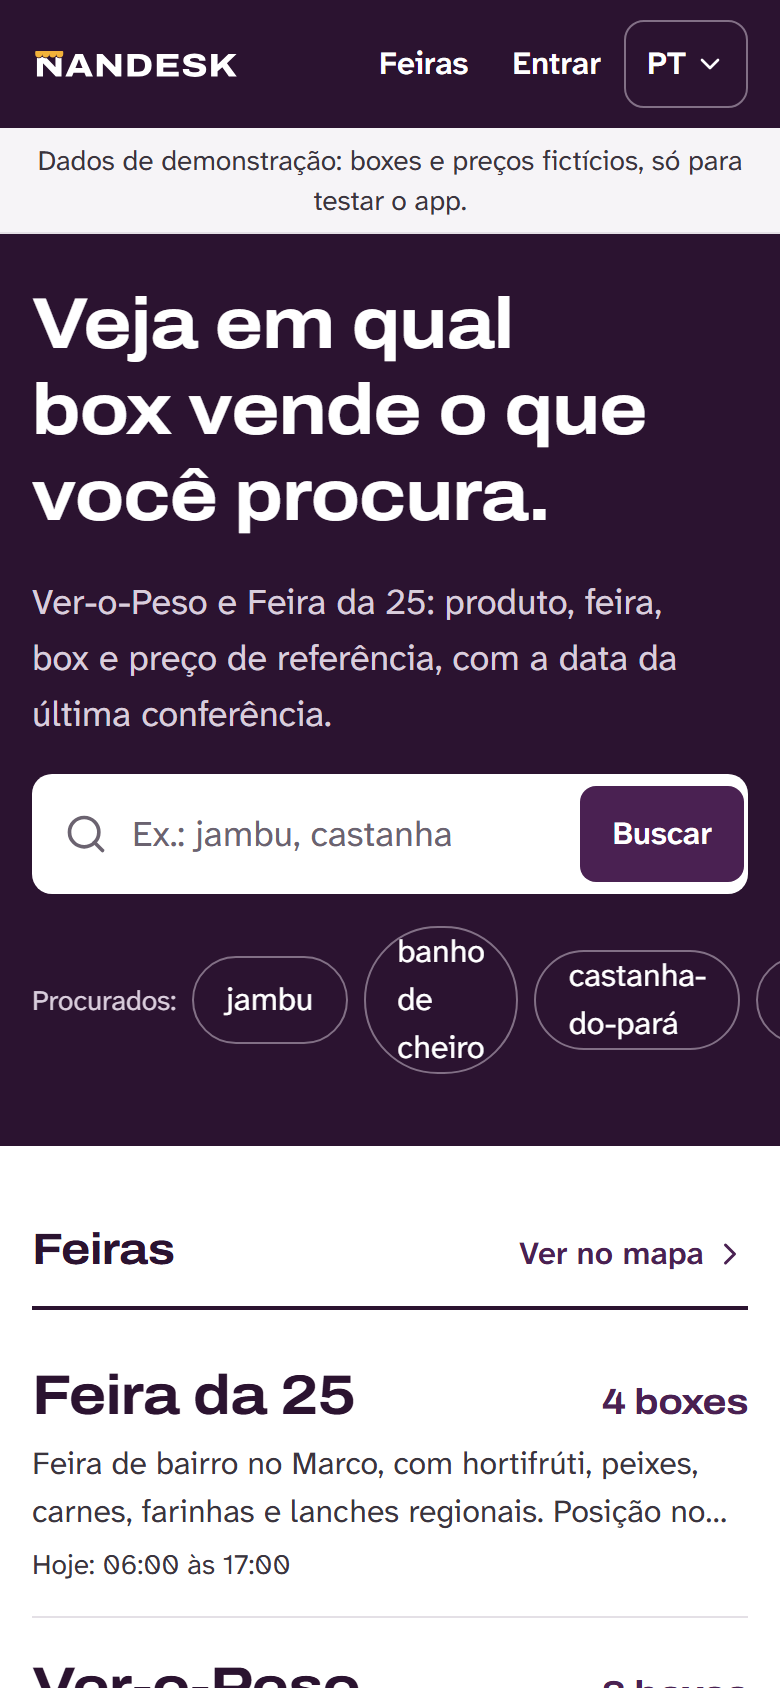
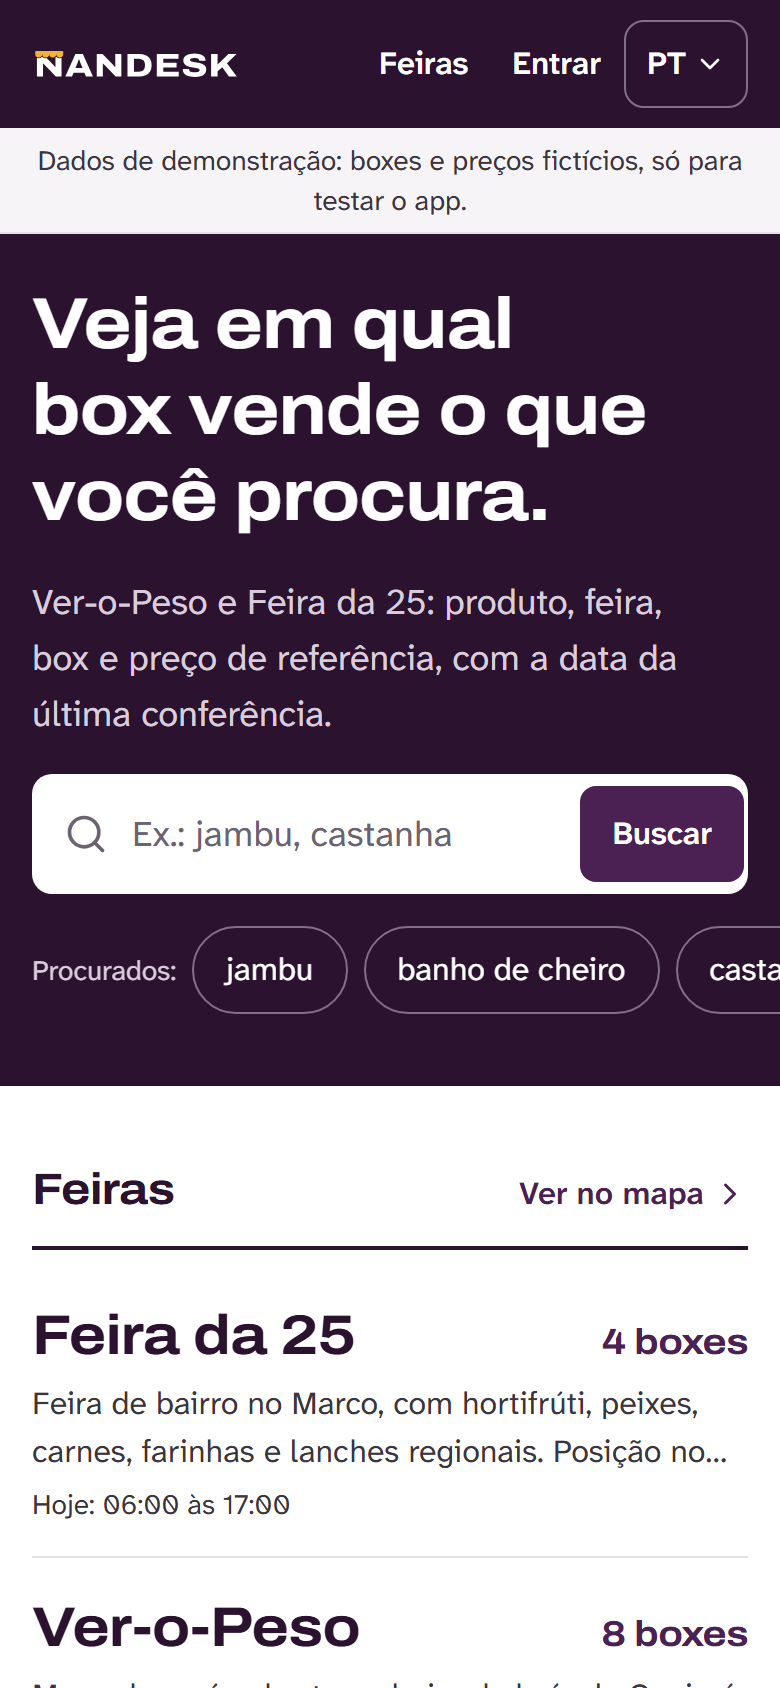
fix(web): marca "atualizado" em Açaí 700, termos rápidos sem quebra, contador do sino e app shell na escala; E2E repetível no mesmo banco (RNF-07, RN-17)
A limpeza das jornadas aprova os envios que sobraram em vez de recusar, para não derrubar a reputação da conta de teste.

Changed region(s): [[0.0, 0.5545, 1.0, 1.0], [0.7692, 0.955, 0.9538, 1.0]]

diff --git a/frontend/e2e/support.ts b/frontend/e2e/support.ts
@@ -48,8 +48,9 @@ interface TaskRow {
  * crie uma num box sem tarefa ativa (RN-01). Devolve o número do box.
  */
 /**
- * Deixa a pessoa sem tarefas em andamento (RN-03 limita a 2): desiste das aceitas e a moderação recusa, reabrindo,
- * os envios pendentes que sobraram de execuções anteriores. No CI o banco começa vazio e isto não faz nada.
+ * Deixa a pessoa sem tarefas em andamento (RN-03 limita a 2): desiste das aceitas e a moderação aprova os envios
+ * pendentes que sobraram de execuções anteriores. Aprovar (e não recusar) preserva a reputação (RN-17), para a
+ * jornada poder rodar várias vezes no mesmo banco. No CI o banco começa vazio e isto não faz nada.
  */
 export async function resetCollaborator(request: APIRequestContext, collaborator: string, name: string) {
   const auth = (t: string) => ({ Authorization: `Bearer ${t}` });
@@ -71,9 +72,9 @@ export async function resetCollaborator(request: APIRequestContext, collaborator
     items: { publicId: string; collaboratorName: string }[];
   };
   for (const item of queue.items.filter((i) => i.collaboratorName === name)) {
-    await request.post(`${API}/moderation/submissions/${item.publicId}/reject`, {
+    await request.post(`${API}/moderation/submissions/${item.publicId}/approve`, {
       headers: auth(mod),
-      data: { reason: 'OTHER', comment: 'Limpeza do E2E', reopenTask: true },
+      data: { acceptConflicts: true },
     });
   }
 }

diff --git a/frontend/src/features/search/pages/HomePage.tsx b/frontend/src/features/search/pages/HomePage.tsx
@@ -38,7 +38,7 @@ export function HomePage() {
               <Link
                 key={key}
                 to={`/search?q=${encodeURIComponent(t(`home.quick.${key}`))}`}
-                className="inline-flex min-h-11 items-center rounded-full border border-on-band-muted/50 px-4 text-on-band no-underline hover:bg-band-hover"
+                className="inline-flex min-h-11 shrink-0 items-center rounded-full border border-on-band-muted/50 px-4 whitespace-nowrap text-on-band no-underline hover:bg-band-hover"
               >
                 {t(`home.quick.${key}`)}
               </Link>

diff --git a/frontend/src/app/AppLayout.tsx b/frontend/src/app/AppLayout.tsx
@@ -177,7 +177,7 @@ function BellLink() {
     >
       <Bell size={20} aria-hidden="true" />
       {unread > 0 && (
-        <span className="tabular absolute top-1.5 right-1 min-w-5 rounded-full bg-highlight px-1 text-center text-xs leading-5 font-bold text-on-highlight">
+        <span className="tabular absolute top-0.5 right-0 min-w-5 rounded-full bg-highlight px-1 text-center text-xs leading-5 font-bold text-on-highlight">
           {unread > 9 ? '9+' : unread}
         </span>
       )}

diff --git a/frontend/src/index.css b/frontend/src/index.css
@@ -168,7 +168,7 @@
 
   /* Mudança vinda da rede: risco Tucupi que fica até a linha ser vista (raise do painel de embarque). */
   .fresh-mark {
-    box-shadow: inset 0 -3px 0 var(--tucupi-400);
+    box-shadow: inset 0 -3px 0 var(--color-brand);
     animation: fresh-wipe var(--duration-base) var(--ease-out);
   }
 

diff --git a/frontend/index.html b/frontend/index.html
@@ -91,7 +91,7 @@
       }
       @media (min-width: 768px) {
         .sh-band h1 {
-          font-size: 2.75rem;
+          font-size: 3rem;
           margin-top: 2.5rem;
         }
       }
